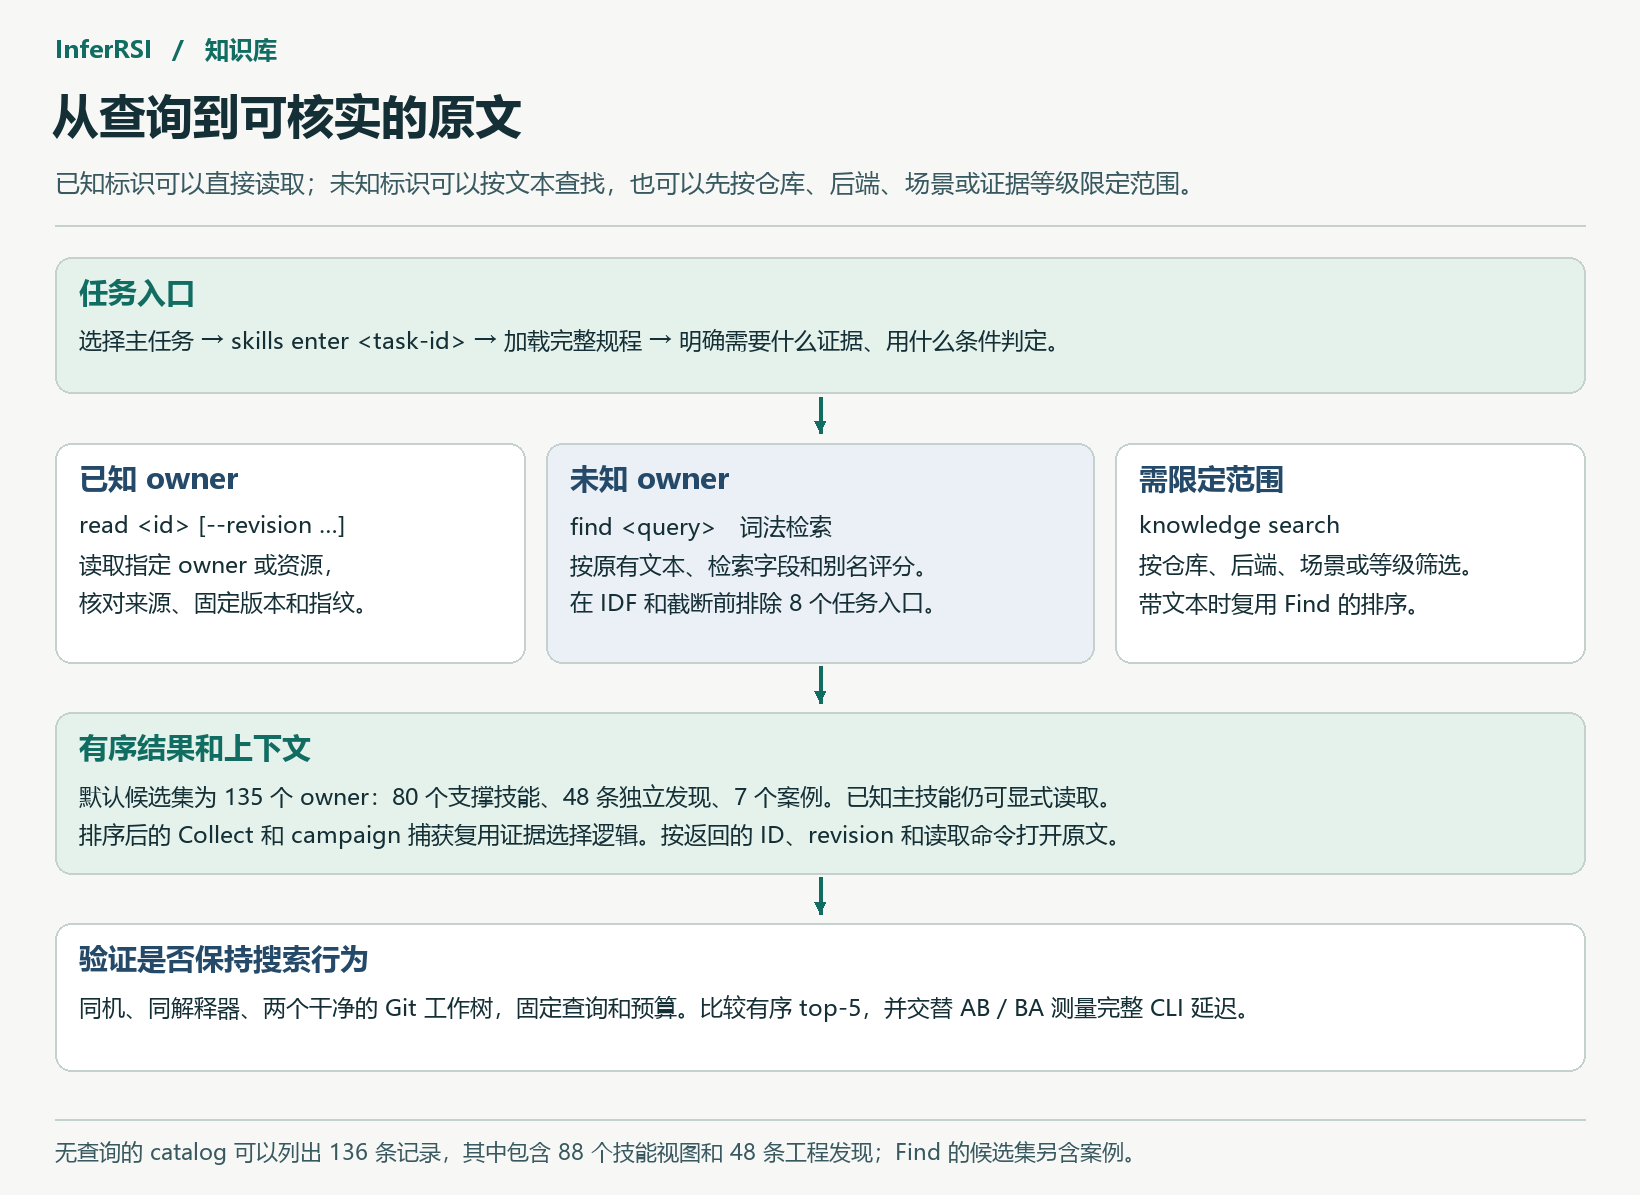
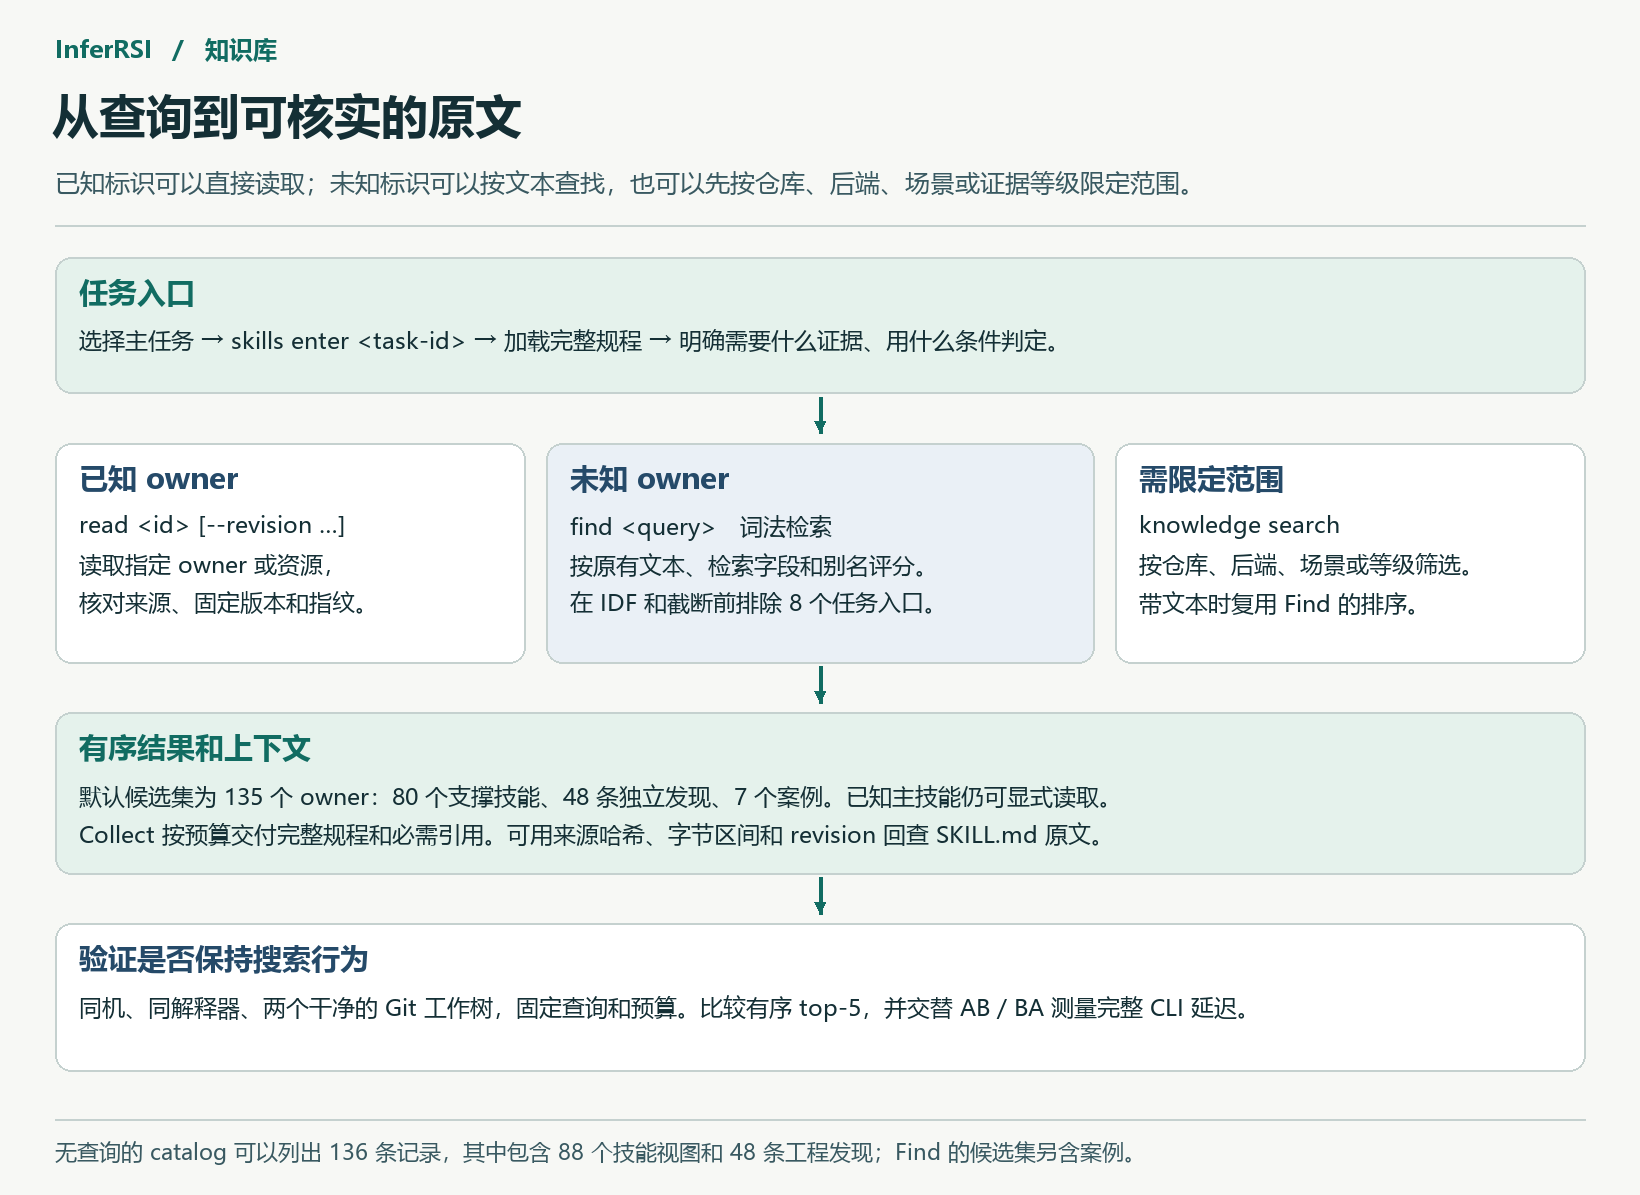
Keep full procedures inside the original retrieval context budgets

Changed region(s): [[0.0311, 0.6812, 0.6841, 0.7121]]

diff --git a/src/inferrsi/knowledge/_skill_selection.py b/src/inferrsi/knowledge/_skill_selection.py
@@ -1,11 +1,12 @@
 from __future__ import annotations
 
+import hashlib
 import json
 import posixpath
 import re
 
 from ._source_snapshot import source_entry
-from .catalog import packaged_skill_id
+from .catalog import _skill_search_source, packaged_skill_id
 
 FIND_RELEVANCE = "find-lexical-v1"
 TASK_STOP_WORDS = frozenset({"a", "an", "and", "for", "in", "of", "on", "the", "to", "with"})
@@ -130,12 +131,32 @@ def record_context(record: dict, view: dict, content: dict[str, bytes], availabl
     }, None
 
 
+def skill_procedure(path: str, raw: bytes) -> tuple[bytes, dict]:
+    """Select the instruction bytes of a single-file skill for a budgeted context."""
+    if posixpath.basename(path) != "SKILL.md":
+        return raw, {}
+    try:
+        text = raw.decode("utf-8")
+    except UnicodeDecodeError:
+        return raw, {}  # The caller handles non-UTF8 optional resources.
+    procedure, metadata = _skill_search_source(text)
+    if metadata is None:
+        return raw, {}
+    data = procedure.encode("utf-8")
+    # The projection removes one contiguous block. These half-open UTF-8 byte
+    # ranges reconstruct the delivered bytes from the exact pinned file.
+    start = next((i for i, (a, b) in enumerate(zip(raw, data)) if a != b), len(data))
+    end = start + len(raw) - len(data)
+    return data, {"locator": "skill-procedure", "source_byte_ranges": [[0, start], [end, len(raw)]]}
+
+
 def context_view(
     index: tuple[str, list[str], list[str]], view: dict, content: dict[str, bytes],
     cue: str | None, available: int,
 ) -> tuple[dict | None, dict | None]:
     core, required, optional = index
-    required_bytes = sum(len(content[path]) for path in required)
+    selected = {path: skill_procedure(path, content[path]) for path in [*required, *optional]}
+    required_bytes = sum(len(selected[path][0]) for path in required)
     if required_bytes > available:
         return None, {
             "ref": view["ref"], "reason": "context_limit",
@@ -147,12 +168,17 @@ def context_view(
 
     def include(path: str) -> None:
         nonlocal used
-        resources.append({
+        data, locator = selected[path]
+        resource = {
             "path": path, "sha256": view["resources"][path], "locator": "whole-resource",
             "role": "core" if path == core else "reference",
-            "content": content[path].decode("utf-8"),
-        })
-        used += len(content[path])
+            "content": data.decode("utf-8"),
+        }
+        if locator:
+            resource.update(**locator, source_sha256=view["resources"][path],
+                            sha256=hashlib.sha256(data).hexdigest())
+        resources.append(resource)
+        used += len(data)
 
     for path in required:
         include(path)
@@ -165,7 +191,7 @@ def context_view(
             omissions.append({"path": path, "reason": "not_context_resource"})
             continue
         try:
-            candidates[path] = content[path].decode("utf-8")
+            candidates[path] = selected[path][0].decode("utf-8")
         except UnicodeDecodeError:
             omissions.append({"path": path, "reason": "not_utf8"})
             continue
@@ -189,7 +215,7 @@ def context_view(
             for path in candidates if path not in matched
         )
     for path in paths:
-        if used + len(content[path]) > available:
+        if used + len(selected[path][0]) > available:
             omissions.append({"path": path, "reason": "context_limit"})
             continue
         include(path)
@@ -198,7 +224,7 @@ def context_view(
         "content_bytes": used, "omissions": omissions,
         "sources": view["sources"], "attribution": view["attribution"],
         "limitations": view["limitations"] + [
-            "Selected resources are complete files; this view is not a standalone Bundle.",
+            "For a skill-procedure, concatenate the reported half-open byte ranges of its source.",
             "Follow omitted or other linked resources through the exact owner revision.",
         ],
     }, None

diff --git a/tests/test_collect_selection.py b/tests/test_collect_selection.py
@@ -124,9 +124,27 @@ def test_context_keeps_complete_core_prerequisites_provenance_and_exact_bytes():
     assert any(path.endswith("/references/source-notes.md") for path in paths)
     for resource in context["resources"]:
         actual = reader.resource(context["ref"], resource["path"], revision=context["revision"])
-        assert resource["content"].encode() == actual
-        assert resource["sha256"] == hashlib.sha256(actual).hexdigest()
-        assert resource["locator"] == "whole-resource"
+        delivered = resource["content"].encode()
+        assert resource["sha256"] == hashlib.sha256(delivered).hexdigest()
+        if resource["path"].endswith("/SKILL.md") and b"  inferrsi: |" in actual:
+            import yaml
+
+            assert resource["locator"] == "skill-procedure"
+            assert resource["source_sha256"] == hashlib.sha256(actual).hexdigest()
+            first, second = resource["source_byte_ranges"]
+            assert first[0] == 0 < first[1] < second[0] < second[1] == len(actual)
+            assert actual[:first[1]] + actual[second[0]:] == delivered
+            original_header, original_body = actual.split(b"---", 2)[1:]
+            header, body = delivered.split(b"---", 2)[1:]
+            expected = yaml.safe_load(original_header)
+            del expected["metadata"]["inferrsi"]
+            if not expected["metadata"]:
+                del expected["metadata"]
+            assert yaml.safe_load(header) == expected
+            assert body == original_body
+        else:
+            assert resource["locator"] == "whole-resource"
+            assert delivered == actual
     assert context["content_bytes"] == result["context_bytes"] == sum(
         len(r["content"].encode()) for r in context["resources"]
     )
@@ -223,12 +241,15 @@ def test_parent_owner_license_is_mandatory_and_budgeted_for_cross_skill_referenc
         assert license_resource["sha256"] == hashlib.sha256(expected).hexdigest()
     bundle = reader.read(identity)
     core = bundle.metadata["skill_documents"]["original"]
-    limited = reader.collect(ids=[identity], context_bytes=len(bundle.content[core]))
+    context, = reader.collect(ids=[identity], context_bytes=100000)["contexts"]
+    core_resource, = (entry for entry in context["resources"] if entry["path"] == core)
+    core_size = len(core_resource["content"].encode())
+    limited = reader.collect(ids=[identity], context_bytes=core_size)
     assert not limited["contexts"]
     omission = limited["context_omissions"][0]
     assert omission["reason"] == "context_limit"
     assert omission["required_bytes"] >= (
-        len(bundle.content[core]) + len(bundle.content[license_path])
+        core_size + len(bundle.content[license_path])
     )
 
 

diff --git a/tests/check_installed.py b/tests/check_installed.py
@@ -19,7 +19,7 @@ from inferrsi.apps.cli import main
 from inferrsi.benchmark.registry import builtin_tasks, describe_task, task_resources
 from inferrsi.contracts import RunSpec, claim, evidence, json_v1
 from inferrsi.knowledge._source_snapshot import BUNDLE_LIBRARY, LIBRARY
-from inferrsi.knowledge.catalog import knowledge_records, search_knowledge
+from inferrsi.knowledge.catalog import _split_skill_metadata, knowledge_records, search_knowledge
 from inferrsi.knowledge.knowledge_operations import KnowledgeReader
 from inferrsi.resources import repository_packs
 from inferrsi.resources.repository_packs import REPO_TYPES, repository_pack
@@ -41,8 +41,6 @@ def bundle_key(logical):
 
 
 def owner_fields(skill_bytes):
-    from inferrsi.knowledge.catalog import _split_skill_metadata
-
     _, fields = _split_skill_metadata(skill_bytes.decode("utf-8").split("---", 2)[1])
     assert isinstance(fields, dict)
     return fields
@@ -274,7 +272,10 @@ for task in ("day-0", "performance", "debug", "accuracy", "version-alignment",
     entered = json.loads(stdout.getvalue())
     assert entered["name"] == name
     owner = library.joinpath(*registry[name]["path"].split("/"), "SKILL.md")
-    assert entered["instructions"] == owner.read_text(encoding="utf-8")
+    raw = owner.read_text(encoding="utf-8")
+    native, fields = _split_skill_metadata(raw.split("---", 2)[1])
+    assert fields["discovery_role"] == "task-entry"
+    assert entered["instructions"] == "---" + native + "---" + raw.split("---", 2)[2]
 
 for framework, backend in (("pytorch", "common"), ("torch-npu", "ascend")):
     identity = f"inferrsi.{backend}.skills.{framework.replace('-', '_')}"

diff --git a/src/inferrsi/knowledge/skill_catalog.py b/src/inferrsi/knowledge/skill_catalog.py
@@ -331,19 +331,19 @@ def primary_task_instructions(root: Path, name: str) -> str:
     """Open the registered primary procedure before looking for supporting evidence."""
     directory = skill_directory(root, name)
     instructions = _entry(directory, "SKILL.md").read_text(encoding="utf-8")
-    _, metadata = _skill_search_source(instructions)
+    procedure, metadata = _skill_search_source(instructions)
     if metadata is None:
         metadata = _sidecar(directory) or {}
     tags = metadata.get("tags")
     if (metadata.get("discovery_role") != "task-entry"
             or not isinstance(tags, list) or "primary-task" not in tags):
         raise ValueError(f"Not a primary inference task skill: {name}")
-    # Return the complete owner file. No frontmatter projection or YAML extra is
-    # needed by a base install, and the host can read the procedure immediately.
-    sections = re.split(r"^---[ \t]*$", instructions, maxsplit=2, flags=re.MULTILINE)
+    # Deliver the complete instructions without repeating the structured
+    # discovery fields. Raw owner bytes stay available through pinned reads.
+    sections = re.split(r"^---[ \t]*$", procedure, maxsplit=2, flags=re.MULTILINE)
     if len(sections) != 3 or sections[0] or not sections[2].strip():
         raise ValueError(f"Primary task skill requires frontmatter and instructions: {name}")
-    return instructions
+    return procedure
 
 
 def skill_resource(root: Path, name: str, resource: str) -> Path:

diff --git a/src/inferrsi/knowledge/knowledge_operations.py b/src/inferrsi/knowledge/knowledge_operations.py
@@ -16,6 +16,7 @@ from ._skill_selection import (
     context_view,
     indexed_skill,
     record_context,
+    skill_procedure,
     validate_relevance_method,
 )
 from .catalog import KNOWLEDGE_SCOPES, SCENARIO_ALIASES, knowledge_records, lookup_record
@@ -332,6 +333,7 @@ class KnowledgeReader:
             else:
                 body = _json(record)
                 path = "record.json"
+            body, locator = skill_procedure(path, body)
             if len(contexts) >= limit or used + len(body) > context_bytes:
                 omissions.append(
                     {
@@ -350,7 +352,8 @@ class KnowledgeReader:
                     "sources": sources,
                     "content_bytes": len(body),
                     "score": score,
-                    "resources": [{"path": path, "role": "core", "content": body.decode("utf-8")}],
+                    "resources": [{"path": path, "role": "core", "content": body.decode("utf-8"),
+                                   **locator}],
                     "omissions": [
                         {"path": target, "reason": "linked_document_not_loaded"}
                         for target in record.get("skill_metadata", {}).get("references", [])

diff --git a/src/inferrsi/apps/campaign.py b/src/inferrsi/apps/campaign.py
@@ -98,12 +98,18 @@ def _supplies_no_observation(result: dict) -> bool:
         key in view for view in result.get("items", []) for key in PROVENANCE_FIELDS)
 
 
+def _captured_resource(resource: dict) -> dict:
+    keys = ("path", "role", "sha256", "content")
+    if resource.get("locator") == "skill-procedure":
+        keys += ("locator", "source_sha256", "source_byte_ranges")
+    return {key: resource[key] for key in keys}
+
+
 def _contexts(result: dict) -> list[dict]:
     return [{
         "ref": context["ref"], "revision": context["revision"],
         "content_bytes": context["content_bytes"],
-        "resources": [{key: resource[key] for key in ("path", "role", "sha256", "content")}
-                      for resource in context["resources"]],
+        "resources": [_captured_resource(resource) for resource in context["resources"]],
         "omissions": context["omissions"],
         "sources": context.get("sources", []),
     } for context in result.get("contexts", [])]

diff --git a/tests/test_codex_plugin.py b/tests/test_codex_plugin.py
@@ -171,8 +171,11 @@ def test_entry_loads_the_required_primary_before_search(distribution, tmp_path):
     primary = invoke(distribution, tmp_path, *command)
     assert primary.returncode == 0, primary.stderr
     owner = PROJECT / "src/inferrsi/knowledge/data/skill_library/tasks/task-accuracy/SKILL.md"
+    _, header, body = owner.read_text(encoding="utf-8").split("---", 2)
+    native, fields = _split_skill_metadata(header)
+    assert fields["discovery_role"] == "task-entry"
     assert json.loads(primary.stdout) == {
-        "name": "task-accuracy", "instructions": owner.read_text(encoding="utf-8")
+        "name": "task-accuracy", "instructions": "---" + native + "---" + body
     }
     hits = invoke(distribution, tmp_path, "find", "TTS quality regression",
                   "--limit", "1", "--no-external", "--json")

diff --git a/docs/operations.md b/docs/operations.md
@@ -155,7 +155,7 @@ those resources retain their repository owner and source attribution.
 
 ### Discover/read packaged or custom skills — `skills list` / `enter` / `show` / `resource` / `reference`
 
-- **Inputs:** The agent selects a primary skill by deliverable and runs `inferrsi skills enter task-accuracy`, for example. It returns that owner's full instructions before supporting evidence search and works on the base installation. An unknown, unavailable or non-primary owner is an error. `list` reads skill frontmatter (and legacy sidecars in historical/custom checkouts); `show <skill>` selects one instruction body; `resource <skill> <relative-path>` and `reference <skill> <relative-path>` resolve one path. The default is the installed library's registered skills; an explicit `--root` selects a custom flat tree or a categorized library with `skill-index.json`. The optional `skills` extra supplies the YAML parser for frontmatter operations.
+- **Inputs:** The agent selects a primary skill by deliverable and runs `inferrsi skills enter task-accuracy`, for example. It returns the primary's complete procedure and host header before supporting evidence search. The base installation can omit the embedded search metadata from this delivery. An exact pinned read exposes the complete source file, including its metadata. An unknown, unavailable or non-primary owner is an error. `list` reads skill frontmatter (and legacy sidecars in historical/custom checkouts); `show <skill>` selects one instruction body; `resource <skill> <relative-path>` and `reference <skill> <relative-path>` resolve one path. The default is the installed library's registered skills; an explicit `--root` selects a custom flat tree or a categorized library with `skill-index.json`. The optional `skills` extra supplies the YAML parser for frontmatter operations.
 - **Scope:** complete packaged skills under `data/skill_library/`, or the explicitly selected custom root. The 21 English engine and research-router skills remain accessible through catalog records and library navigation, separately from the registry.
 - **Output:** metadata listing, one instruction body, or a resolved path.
 - **Side effects:** none. `resource`/`reference` do not load or execute the target.

diff --git a/docs/knowledge-operations.md b/docs/knowledge-operations.md
@@ -132,18 +132,21 @@ the resource rules below. `material=True` on a package Skill record returns its
 | `context_omissions` | Owner context unavailable: `unsupported_context`, `index_unavailable` or `context_limit` |
 | `context_bytes`, `context_budget` | Used body bytes, requested ceiling and accounting method |
 
-Each context resource carries its complete UTF-8 `content`, canonical resource
-`path`, exact-byte `sha256`, `role` (`core` or `reference`) and
-`locator=whole-resource`. The parent view supplies its owning ref and revision;
-`resource` can read exactly those bytes. The full canonical `SKILL.md`, declared
-references, provenance readsets and owner licenses (when present) are mandatory.
+Each context resource reports its canonical `path`, `role`, UTF-8 `content` and
+the SHA-256 of those delivered bytes. A `whole-resource` locator covers the
+entire file. A `skill-procedure` locator delivers the complete procedure and host
+frontmatter, omitting the structured `metadata.inferrsi` block from prompt
+context. Its `source_sha256` covers the entire file, and `source_byte_ranges`
+lists the half-open byte ranges whose concatenation reproduces the projection. Use the parent ref,
+revision and path with `resource` to reproduce the source bytes. The skill
+procedure, declared references, provenance readsets and owner licenses are mandatory.
 Licenses are retained along each required resource's skill/repository/framework
 directory ancestry inside the packaged library, including cross-skill prerequisites.
 Owner-local named license/notice files (including retained `*-LICENSE.md` and
 `THIRD_PARTY_NOTICES.md`) and explicit `skill_metadata.sources[].third_party_notices`
 paths are mandatory as well. Declared notice paths use the same boundary and
 existence checks as declared references. These resources never depend on a
-relevance match; their complete bytes count toward the mandatory set.
+relevance match; their delivered bytes count toward the mandatory set.
 If that set does not fit, the owner's entire context is omitted, with required
 and available bytes, and a later smaller context can still fit. The owning item
 can still be returned. Mandatory instructions are never truncated.

diff --git a/docs/knowledge-layout.md b/docs/knowledge-layout.md
@@ -59,7 +59,8 @@ flowchart TB
     I -->|Authored finding| E["Validate selected record and its dependencies<br/>retain linked-library bundle and pin checks when skill documents are declared"]
     I -->|Other exact owner| V["Check revision, device, model, flags and measurement against this run"]
     E & A & B --> V
-    V --> X["Meets gates → cite reproducible evidence and scope"]
+    V --> Z["Budgeted Collect delivers procedure and required sources; exact read retains full bytes"]
+    Z --> X["Meets gates → cite reproducible evidence and scope"]
     V --> G["Gap → name missing evidence; test the next distinction or record exhausted budget"]
     G -.->|budget remains| D
 ```
@@ -115,6 +116,8 @@ src/inferrsi/knowledge/data/
 ```
 
 The README documents the library. A procedure, including its resources, belongs in one registered directory. An engineering record carries its own sources, applicability and verification status. Its filename must match its stable ID. The registry locates each skill. The existing protected `knowledge/catalog.py` owns the public view fields, including source links, recommendations and verification status. Builds compile YAML headers and pinned Git fingerprints required by the base wheel. Authors edit structured fields in the same SKILL.md as the procedure. The catalog combines that embedded object with the compiled host header and resource fingerprints to emit the public schema-1 record on demand. Publishing the same skill under multiple engine or accelerator trees would require synchronized edits. Capture these dimensions for the actual run and compare them with owner metadata. For a new environment with no applicable local evidence, retain the unknown and the first check that could resolve it. [Record authoring guide](../src/inferrsi/knowledge/data/skill_library/records/README.md)
+
+Budgeted Collect can deliver a `skill-procedure` view. Its `sha256` covers the delivered bytes. Its `source_sha256`, byte ranges and revision identify the full source and allow the receiver to reconstruct that view exactly. The full file is available through an exact resource read. [Context and byte ranges](knowledge-operations.md)
 
 ### What to edit
 

diff --git a/docs/architecture.md b/docs/architecture.md
@@ -462,7 +462,8 @@ do not upgrade imported knowledge to a validated claim.
 The bundled skill CLI uses `data/skill_library/` and its `skill-index.json` registry.
 The main agent selects one primary procedure from `tasks/` and reads it with
 `skills enter <task-id>` before searching for supporting evidence. The base
-runtime can load the complete packaged primary procedure without PyYAML.
+runtime loads the complete packaged primary procedure and its host header without PyYAML.
+The structured InferRSI annotation stays in the pinned source file.
 
 Supporting procedures live in `systems/`, `playbooks/`, `workflows/` and
 `casebooks/`. Engine owners live under `systems/engines/<engine>/`. Each owner
